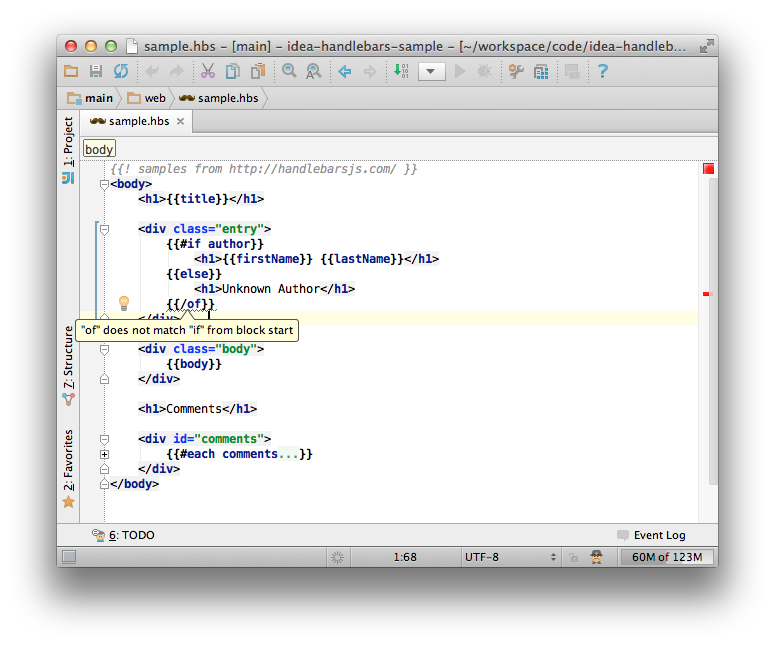
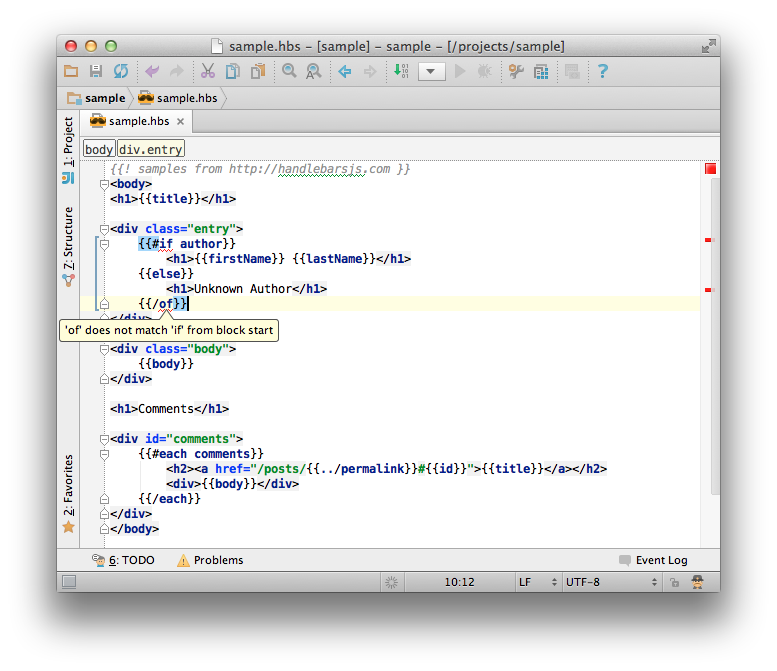
Update plugin.xml and readme.md for release

diff --git a/readme.md b/readme.md
@@ -6,13 +6,12 @@ IDEA-Handlebars adds support for [Handlebars](http://handlebarsjs.com/) and [Mus
 
 [Jetbrains plugin repository page](http://plugins.intellij.net/plugin/?idea&pluginId=6884)
 
-## _NEW:_ Updated parsing, improved comments, Darcula support
+## _NEW:_ Structure view, improved block errors, brace matching
 The new release includes the following:
-* handles the [latest Handlebars features](https://github.com/dmarcotte/idea-handlebars/pull/46)
-* adds [comment folding](https://github.com/dmarcotte/idea-handlebars/pull/49)
-* enables a [consistent commenter when editing](https://github.com/dmarcotte/idea-handlebars/pull/47) Handlebars files
-* updates look and feel to integrate properly with alternate themes, including Darcula
-    * *NOTE:* requires your IDE's build number to be greater than `128.18` (for IDEA, this means version at least `12.1`.  Other IDEs should catch up soon)
+* [Structure view support for templates](https://github.com/dmarcotte/idea-handlebars/pull/60)
+* [Improved mismatched block errors](https://github.com/dmarcotte/idea-handlebars/pull/63), with new `Alt-Enter` quick fixes
+* [New block-aware brace matching](https://github.com/dmarcotte/idea-handlebars/pull/51)
+* Fixes for [inverse block code folding](https://github.com/dmarcotte/idea-handlebars/pull/53) and [auto-insert of close block for complex ids](https://github.com/dmarcotte/idea-handlebars/issues/62)
 
 ## Installing
 * To install the latest release (and get automatic updates), install this plugin using your IDE's plugin manager:
@@ -22,9 +21,10 @@ The new release includes the following:
 * [Syntax error inspections](https://raw.github.com/dmarcotte/idea-handlebars/master/markdown_images/editor.png)
 * [Configurable syntax highlighting](https://raw.github.com/dmarcotte/idea-handlebars/master/markdown_images/highlight_config.png)
 * [Template formatter](https://raw.github.com/dmarcotte/idea-handlebars/master/markdown_images/formatter.png)
+* [Structure view](https://raw.github.com/dmarcotte/idea-handlebars/master/markdown_images/structure_view.png)
 * Code folding for mustache blocks and comments
 * Auto-insert of closing tags
-* Matched mustache pair highlighting
+* [Matched mustache pair highlighting](https://raw.github.com/dmarcotte/idea-handlebars/master/markdown_images/brace_match.png)
 * Full highlighting, code completion, inspections, formatting and commenting for the content in your templates (by default HTML, configurable in ["Settings->Template Data Languages"](https://raw.github.com/dmarcotte/idea-handlebars/master/markdown_images/custom_langs_by_project.png) and ["Settings->File Types"](https://raw.github.com/dmarcotte/idea-handlebars/master/markdown_images/custom_langs_by_filename_pattern.png))
 * By default, files matching `*.handlebars`, `*.hbs` or `*.mustache` are handled by this plugin.  Configure other file patterns in `Settings->File Types`
 
